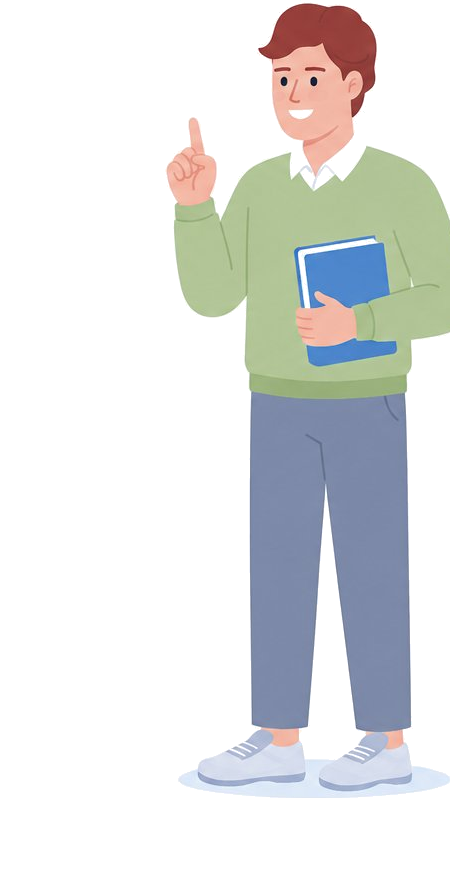
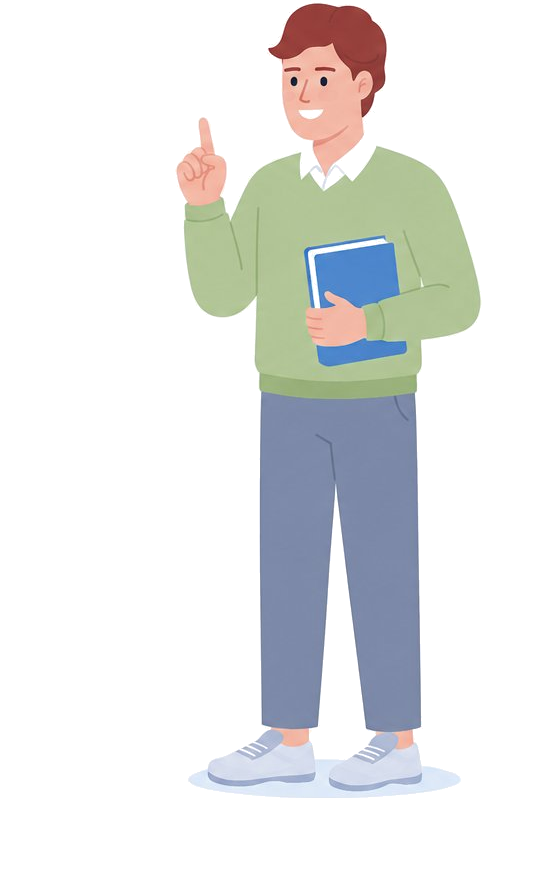
1

Changed region(s): [[0.3111, 0.0, 1.0, 0.906]]

diff --git a/login.html b/login.html
@@ -109,7 +109,7 @@
     }
     
     .teacher-right {
-      margin-left: -50px;   /* 검지손가락이 로그인창을 침범 */
+      margin-left: -90px;   /* 검지손가락이 로그인창을 더 침범 */
       margin-bottom: -20px;
     }
     
@@ -213,7 +213,7 @@
         width: 160px;
       }
       .teacher-left { margin-right: -40px; }
-      .teacher-right { margin-left: -40px; }
+      .teacher-right { margin-left: -72px; }
       .card { max-width: 360px; }
     }
     
@@ -225,7 +225,7 @@
         width: 120px;
       }
       .teacher-left { margin-right: -30px; }
-      .teacher-right { margin-left: -30px; }
+      .teacher-right { margin-left: -55px; }
       .card { 
         max-width: 320px; 
         padding: 28px;
